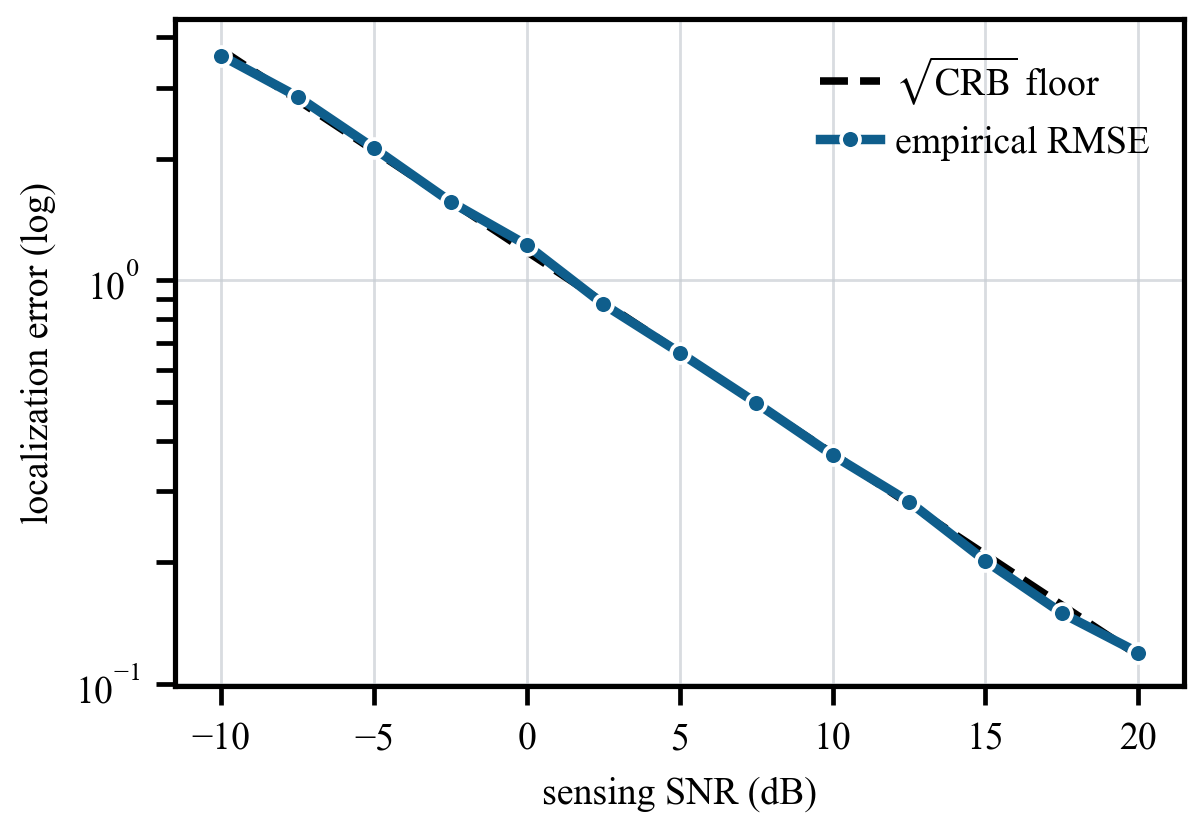
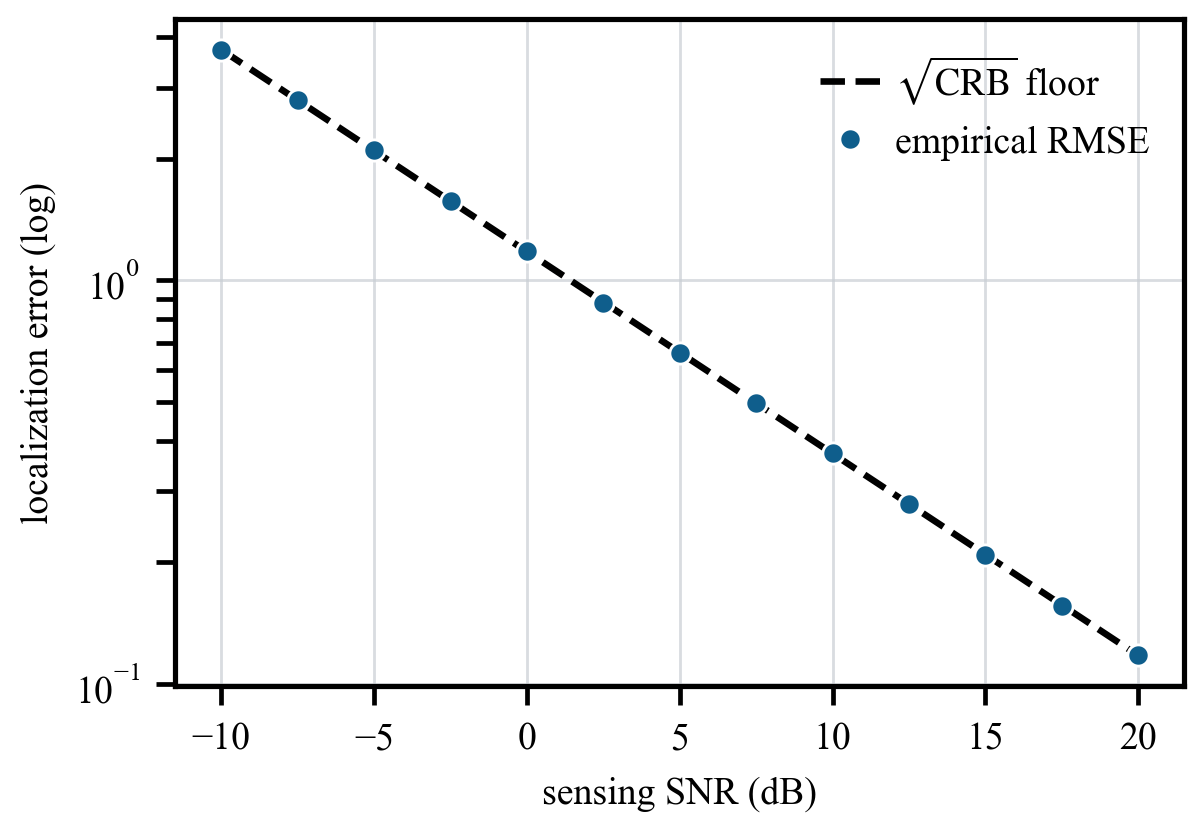
Theory soundness pass: rigorous Prop 4, exact Prop 6 rate, Fig 11 CRB clarity
Prop 4 gains the Slater condition plus a costless best-response safeguard, and
its proof replaces the unjustified bounded-dual step with the standard
contradiction argument (mu <= (Umax-Umin)/delta + eta*G). Prop 3 no longer
claims non-positive marginals are excluded (the implementation fills the
budget). Remark 3 defines curvature on the normalised utility. Prop 6's
diminishing-step rate is stated via the realised average MSE, which removes a
silently dropped constant. Fig 11: 20k Monte-Carlo trials (sampling error
<0.5%) with markers-only RMSE on the dashed bound, plus one sentence noting
that residual excursions are finite-sample fluctuation, not bound violations.

diff --git a/research/paper/paper.tex b/research/paper/paper.tex
@@ -252,7 +252,7 @@ Let $U^\star$ be the maximum of $U$ over sets of size $K$. The greedy rule~\eqre
 \end{proposition}
 
 \begin{remark}[Curvature-sharpened guarantee]\label{rem:curvature}
-The constant in Proposition~\ref{prop:greedy} improves when the utility is not fully curved. Let the total curvature of $U$ be
+The constant in Proposition~\ref{prop:greedy} improves when the utility is not fully curved. Normalise $U$ so that $U(\emptyset)=0$ and let its total curvature be
 $\gamma_U=1-\min_{k\in\calN}\big[U(\calN)-U(\calN\setminus\{k\})\big]/U(\{k\})\in[0,1]$.
 Greedy selection under a cardinality constraint then attains the factor $\frac{1}{\gamma_U}\big(1-e^{-\gamma_U}\big)$, which is at least $1-1/e$ and strictly exceeds it whenever $\gamma_U<1$~\cite{conforti1984}. Both components of $U$ satisfy $\gamma_U<1$ in this system. The prior $\bJ_0\succ 0$ keeps every sensing marginal strictly positive even on the full ground set, and the facility-location term retains positive marginals whenever some client remains the best cover for at least one peer. At the operating point of Section~\ref{sec:results} the prior is deliberately weak ($\lambda_0=10^{-3}$), so the measured curvature of the sensing utility is close to one ($\gamma\approx 0.999$ across the campaign scenarios) and the sharpened factor exceeds the classical constant only marginally ($0.6323$ against $0.6321$). The refinement is stated for completeness. It becomes material when the prior carries substantial target information, for example when knowledge accumulates across rounds.
 \end{remark}
@@ -260,11 +260,11 @@ Greedy selection under a cardinality constraint then attains the factor $\frac{1
 Proposition~\ref{prop:greedy} applies to $U$, whereas the inner loop of Algorithm~\ref{alg:scout} optimises the penalised objective $U_\mu$. The following proposition delineates the guarantee that holds in each regime.
 
 \begin{proposition}[Guarantees for the penalised objective]\label{prop:penalised}
-Write $U_\mu=U-\mu(\mathrm{MSE}-\varepsilon)$. \emph{(i)} When the constraint is slack, as at the main operating point of Section~\ref{sec:results} (realised aggregation MSE $2\times10^{-4}$ against a budget $\varepsilon=10^{-3}$), the dual variable satisfies $\mu=0$, hence $U_\mu=U$ and the $(1-1/e)$ bound of Proposition~\ref{prop:greedy} applies exactly. \emph{(ii)} For $\mu>0$, the penalty $-\mu\,\mathrm{MSE}(\calS)$ is, under the channel-inversion model~\eqref{eq:mse}, a min-based set-coupled term that is neither modular nor submodular; hence $U_\mu$ is not guaranteed submodular and the $(1-1/e)$ bound does not transfer to $U_\mu$. In this regime feasibility is delivered by the outer dual update~\eqref{eq:dual}, a separate no-regret mechanism analysed in Proposition~\ref{prop:pd}, while the greedy inner step, which excludes non-positive marginals, keeps the selection within the monotone-improvement region. No constant-factor guarantee is claimed for $U_\mu$ in the binding regime; deterministic greedy selection admits no such guarantee for non-monotone submodular objectives, for which the relevant bound is the $1/e$ factor of randomised greedy~\cite{buchbinder2014}.
+Write $U_\mu=U-\mu(\mathrm{MSE}-\varepsilon)$. \emph{(i)} When the constraint is slack, as at the main operating point of Section~\ref{sec:results} (realised aggregation MSE $2\times10^{-4}$ against a budget $\varepsilon=10^{-3}$), the dual variable satisfies $\mu=0$, hence $U_\mu=U$ and the $(1-1/e)$ bound of Proposition~\ref{prop:greedy} applies exactly. \emph{(ii)} For $\mu>0$, the penalty $-\mu\,\mathrm{MSE}(\calS)$ is, under the channel-inversion model~\eqref{eq:mse}, a min-based set-coupled term that is neither modular nor submodular; hence $U_\mu$ is not guaranteed submodular and the $(1-1/e)$ bound does not transfer to $U_\mu$. In this regime feasibility is delivered by the outer dual update~\eqref{eq:dual}, a separate mechanism analysed in Proposition~\ref{prop:pd}, while the greedy inner step still adds the largest available penalised marginal at each of the $K$ additions. No constant-factor guarantee is claimed for $U_\mu$ in the binding regime; deterministic greedy selection admits no such guarantee for non-monotone submodular objectives, for which the relevant bound is the $1/e$ factor of randomised greedy~\cite{buchbinder2014}.
 \end{proposition}
 
 \begin{proposition}[Feasibility and regret of the primal--dual loop]\label{prop:pd}
-Suppose $\mathrm{MSE}(\calS_t)\in[0,G]$ for all $t$ and let $\eta=\Theta(1/\sqrt{T})$. Then the time-averaged constraint violation vanishes, $\frac{1}{T}\sum_{t}(\mathrm{MSE}(\calS_t)-\varepsilon)\le O(1/\sqrt{T})$, and the cumulative utility gap to the best fixed feasible selection in hindsight is $O(\sqrt{T})$; the loop is no-regret.
+Suppose $\mathrm{MSE}(\calS_t)\in[0,G]$ for all $t$, that every round admits a strictly feasible selection $\calS^{\circ}_t$ with $\mathrm{MSE}(\calS^{\circ}_t)\le\varepsilon-\delta$ for some $\delta>0$, and that the inner step returns a set whose penalised utility is at least that of $\calS^{\circ}_t$ (enforceable at no extra cost by retaining the better of the greedy set and any known feasible set). Let $\eta=\Theta(1/\sqrt{T})$. Then the dual iterates remain bounded, the time-averaged constraint violation satisfies $\frac{1}{T}\sum_{t}(\mathrm{MSE}(\calS_t)-\varepsilon)\le O(1/\sqrt{T})$, and the cumulative utility gap to the best fixed feasible selection in hindsight is $O(\sqrt{T})$, so the loop is no-regret.
 \end{proposition}
 
 \begin{proposition}[CRB achievability]\label{prop:crb}
@@ -283,7 +283,7 @@ Under (A1)--(A3) and any $\eta_\ell\le 1/L$, the iterates of Algorithm~\ref{alg:
 +L\eta_\ell\Big(\sigma_u^{2}+\frac{\overline{\mathrm{MSE}}_T}{\eta_\ell^{2}}\Big),
 \label{eq:learnbound}
 \end{equation}
-where $\overline{\mathrm{MSE}}_T=\frac{1}{T}\sum_t\mathrm{MSE}(\calS_t)$. By Proposition~\ref{prop:pd} the dual loop guarantees $\overline{\mathrm{MSE}}_T\le\varepsilon+O(1/\sqrt{T})$, so the bound converges to a noise floor that scales linearly in the prescribed budget $\varepsilon$. With a diminishing local scale $\eta_\ell=\Theta(1/\sqrt{T})$ the average squared gradient norm is $O\big((1+\sigma_u^{2})/\sqrt{T}+\sqrt{T}\,\varepsilon\big)$, which for a budget $\varepsilon=O(1/T)$ recovers the standard $O(1/\sqrt{T})$ rate of noiseless federated SGD.
+where $\overline{\mathrm{MSE}}_T=\frac{1}{T}\sum_t\mathrm{MSE}(\calS_t)$. By Proposition~\ref{prop:pd} the dual loop guarantees $\overline{\mathrm{MSE}}_T\le\varepsilon+O(1/\sqrt{T})$, so the bound converges to a noise floor that scales linearly in the prescribed budget $\varepsilon$. With a diminishing local scale $\eta_\ell=\Theta(1/\sqrt{T})$ the average squared gradient norm is $O\big((1+\sigma_u^{2})/\sqrt{T}+\sqrt{T}\,\overline{\mathrm{MSE}}_T\big)$, which recovers the standard $O(1/\sqrt{T})$ rate of noiseless federated SGD whenever the realised average error is at most of order $1/T$.
 \end{proposition}
 
 Proposition~\ref{prop:learn} is the quantitative payoff of the cognitive loop. The scheduler does not merely respect an operational constraint. Through~\eqref{eq:learnbound} the constraint level $\varepsilon$ becomes a design parameter with a provable effect on the trained model, and the dual price is the mechanism that delivers the required time-averaged error without manual tuning. At the main operating point the budget is slack by an order of magnitude, so the noise floor in~\eqref{eq:learnbound} is dominated by the sampling variance $\sigma_u^2$.
@@ -506,7 +506,7 @@ Fig.~\ref{fig:adapt}(c) and (d) sweep the static budget into the binding regime.
 \end{figure}
 
 \subsection{Achievability of the CRB}
-Fig.~\ref{fig:rmse} relates the CRB optimised by the algorithm to the localisation error attained by a receiver. The FIM here is derived strictly from the multistatic radar observation model and is unrelated to the Fisher information sometimes used to characterise neural network loss landscapes. For a fixed geometry, a Monte-Carlo ML localisation is performed and its root-mean-square error (RMSE) is plotted against $\sqrt{\mathrm{CRB}}$ across a $30$ dB SNR range. The empirical RMSE tracks the CRB floor at every SNR, confirming Proposition 5. The CRB differences reported in this section therefore correspond to differences in achievable localisation accuracy.
+Fig.~\ref{fig:rmse} relates the CRB optimised by the algorithm to the localisation error attained by a receiver. The FIM here is derived strictly from the multistatic radar observation model and is unrelated to the Fisher information sometimes used to characterise neural network loss landscapes. For a fixed geometry, a Monte-Carlo ML localisation is performed and its root-mean-square error (RMSE) is plotted against $\sqrt{\mathrm{CRB}}$ across a $30$ dB SNR range. The empirical RMSE tracks the CRB floor at every SNR, confirming Proposition 5. Small excursions of the sample RMSE on either side of the bound are finite-sample Monte-Carlo fluctuation, since the bound constrains the true error covariance rather than any single empirical estimate. The CRB differences reported in this section therefore correspond to differences in achievable localisation accuracy.
 Sensing mutual information is an alternative metric for stochastic ISAC environments \cite{zhang2026integrated}. The CRB is adopted here because the additive FIM ties it directly to the geometry of the active set and makes the log-determinant utility submodular (Proposition 1), which is what enables the greedy guarantee, and because the CRB remains the metric around which contemporary ISAC designs are built~\cite{wang2024cramer,zhou2026crb}. Translating SMI into a submodular set function for client selection remains open.
 
 \begin{figure}[!t]
@@ -561,19 +561,13 @@ For part (ii), it suffices to exhibit the structural failure. From~\eqref{eq:mse
 \end{proof}
 
 \begin{proof}[Proof of Proposition~\ref{prop:pd}]
-Let $v_t=\mathrm{MSE}(\calS_t)-\varepsilon\in[-\varepsilon,\,G-\varepsilon]$ denote the per-round violation, so that the recursion~\eqref{eq:dual} reads $\mu_{t+1}=[\mu_t+\eta v_t]_+$. Squaring and using $([x]_+)^2\le x^2$,
+Let $v_t=\mathrm{MSE}(\calS_t)-\varepsilon\in[-\varepsilon,\,G-\varepsilon]$ denote the per-round violation, so that the recursion~\eqref{eq:dual} reads $\mu_{t+1}=[\mu_t+\eta v_t]_+$. Since $[x]_+\ge x$, summing the recursion gives $\sum_{t=1}^{T}v_t\le\mu_{T+1}/\eta$.
+
+Boundedness of the dual follows from strict feasibility. Let $U_{\max}$ and $U_{\min}$ bound the utility over sets of size $K$ and set $\bar\mu=(U_{\max}-U_{\min})/\delta$. Suppose $\mu_t>\bar\mu$ and $\mathrm{MSE}(\calS_t)>\varepsilon$. Then $U_{\mu_t}(\calS_t)\le U_{\max}$, whereas $U_{\mu_t}(\calS^{\circ}_t)\ge U_{\min}+\mu_t\delta>U_{\max}$, which contradicts the assumption that the inner step matches $\calS^{\circ}_t$ in penalised utility. Violations therefore occur only while $\mu_t\le\bar\mu$, and since a single update increases the dual by at most $\eta G$, induction from $\mu_1=0$ gives $\mu_t\le\bar\mu+\eta G$ for all $t$. Consequently
 \[
-\mu_{t+1}^2\;\le\;\mu_t^2+2\eta\,\mu_t v_t+\eta^2 v_t^2 .
+\frac{1}{T}\sum_{t=1}^{T}\big(\mathrm{MSE}(\calS_t)-\varepsilon\big)\;\le\;\frac{\bar\mu+\eta G}{\eta T}\;=\;O\!\Big(\frac{1}{\sqrt{T}}\Big)
 \]
-Summing from $t=1$ to $T$ and telescoping with $\mu_1=0$ gives
-\[
-0\;\le\;\mu_{T+1}^2\;\le\;2\eta\sum_{t=1}^{T}\mu_t v_t+\eta^2\sum_{t=1}^{T}v_t^2 ,
-\]
-hence $\sum_t \mu_t v_t\ge-\tfrac{\eta}{2}\sum_t v_t^2\ge-\tfrac{\eta}{2}TG^2$. Moreover, the recursion implies $\mu_{t+1}\ge\mu_t+\eta v_t$, so summing yields $\sum_{t=1}^{T}v_t\le\mu_{T+1}/\eta$. The recursion also bounds the dual iterates as $\mu_{t}\le\eta\sum_{s<t}[v_s]_+\le\eta T G$; combining with the drift inequality above and $\eta=\Theta(1/\sqrt{T})$ gives $\mu_{T+1}=O(\sqrt{T}\,\eta\,G)=O(G)$, and therefore
-\[
-\frac{1}{T}\sum_{t=1}^{T}\big(\mathrm{MSE}(\calS_t)-\varepsilon\big)\;\le\;\frac{\mu_{T+1}}{\eta T}\;=\;O\!\Big(\frac{1}{\sqrt{T}}\Big).
-\]
-For the regret claim, the recursion~\eqref{eq:dual} is projected online gradient ascent on the concave dual function with bounded subgradients $v_t$; standard online convex optimisation analysis with step size $\eta=\Theta(1/\sqrt{T})$ gives dual regret $O(\sqrt{T})$, and weak duality converts the dual regret into an $O(\sqrt{T})$ cumulative utility gap against the best fixed feasible selection in hindsight.
+for $\eta=\Theta(1/\sqrt{T})$. For the regret claim, the recursion~\eqref{eq:dual} is projected online gradient ascent on the concave dual function with bounded subgradients $v_t$ and bounded iterates. Standard online convex optimisation analysis with step size $\eta=\Theta(1/\sqrt{T})$ gives dual regret $O(\sqrt{T})$, and weak duality converts the dual regret into an $O(\sqrt{T})$ cumulative utility gap against the best fixed feasible selection in hindsight.
 \end{proof}
 
 \begin{proof}[Proof of Proposition~\ref{prop:crb}]

diff --git a/research/paper/paperfigs.py b/research/paper/paperfigs.py
@@ -660,22 +660,21 @@ def fig_rmse_crb():
         crb_curve.append(crb)
         # Monte-Carlo estimator: each client gives a noisy position measurement with
         # covariance = inverse of its own FIM; fuse by information averaging (BLUE).
-        errs = []
+        # 20k trials keep the sampling error of the empirical RMSE below ~0.5%, so the
+        # curve sits on the bound instead of fluctuating visibly around it.
+        trials = 20000
         Ji = per_client_target_fim(geom, np.full((clients.shape[0], 1), snr), kr, ka)[:, 0]
-        for _ in range(400):
-            info = np.zeros((2, 2)); info_x = np.zeros(2)
-            for k in range(clients.shape[0]):
-                Jk = Ji[k] + 1e-6 * np.eye(2)
-                Ck = np.linalg.inv(Jk)
-                z = target[0] + rng.multivariate_normal([0, 0], Ck)
-                info += Jk; info_x += Jk @ z
-            xhat = np.linalg.solve(info, info_x)
-            errs.append(np.sum((xhat - target[0]) ** 2))
-        rmse_curve.append(np.sqrt(np.mean(errs)))
+        info = np.zeros((2, 2)); info_x = np.zeros((trials, 2))
+        for k in range(clients.shape[0]):
+            Jk = Ji[k] + 1e-6 * np.eye(2)
+            z = target[0] + rng.multivariate_normal([0, 0], np.linalg.inv(Jk), size=trials)
+            info += Jk; info_x += z @ Jk.T
+        xhat = np.linalg.solve(info, info_x.T).T
+        rmse_curve.append(np.sqrt(np.mean(np.sum((xhat - target[0]) ** 2, axis=1))))
     fig, ax = plt.subplots(figsize=(3.5, 2.4)); bu.floating_axes(ax); bu.soft_grid(ax, "both")
-    ax.plot(snr_db, crb_curve, color=bu.INK, lw=1.6, ls="--", label="$\\sqrt{\\mathrm{CRB}}$ floor", zorder=4)
-    ax.plot(snr_db, rmse_curve, color=c(HEAD), lw=2.0, marker="o", ms=4, mec="white", mew=0.8,
-            label="empirical RMSE", zorder=5)
+    ax.plot(snr_db, crb_curve, color=bu.INK, lw=1.4, ls="--", label="$\\sqrt{\\mathrm{CRB}}$ floor", zorder=5)
+    ax.plot(snr_db, rmse_curve, "o", color=c(HEAD), ms=4.5, mec="white", mew=0.6,
+            label="empirical RMSE", zorder=6)
     ax.set_yscale("log"); ax.set_xlabel("sensing SNR (dB)")
     ax.set_ylabel("localization error (log)")
     ax.legend(loc="upper right", fontsize=8, handletextpad=0.4, handlelength=1.6)
